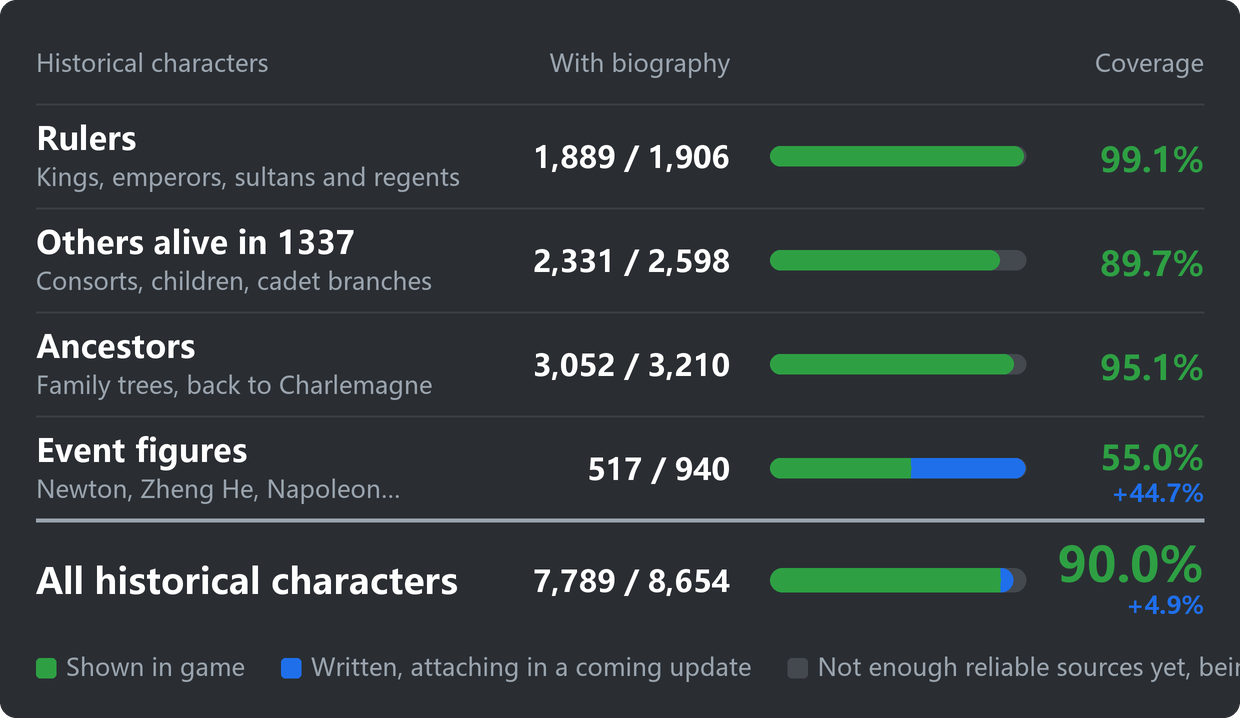
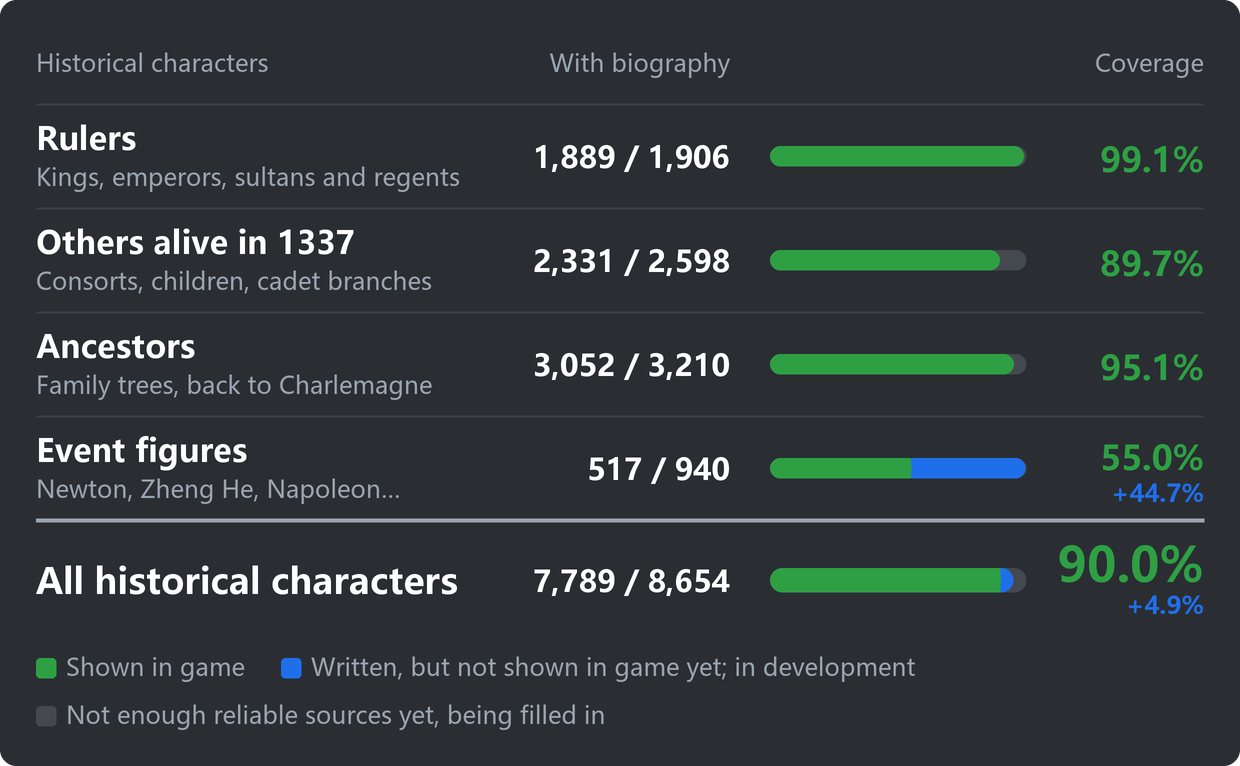
Coverage legend: written but not yet shown in game

diff --git a/workshop/assets/coverage-20261105/render.py b/workshop/assets/coverage-20261105/render.py
@@ -21,7 +21,7 @@ TEXT = {
            'ancestors': ('Ancestors', 'Family trees, back to Charlemagne'),
            'events': ('Event figures', 'Newton, Zheng He, Napoleon…'),
            'total': ('All historical characters', None),
-           'legend': ('Shown in game', 'Written, attaching in a coming update', 'Not enough reliable sources yet, being filled in'),
+           'legend': ('Shown in game', 'Written, but not shown in game yet; in development', 'Not enough reliable sources yet, being filled in'),
            },
     'zh-CN': {'head': ('人物类别', '有生平 / 总数', '覆盖率'),
               'rulers': ('君主与统治者', '国王、皇帝、苏丹、摄政'),
@@ -29,7 +29,7 @@ TEXT = {
               'ancestors': ('先辈', '家族树里的祖先，远至查理曼'),
               'events': ('事件人物', '牛顿、郑和、拿破仑……'),
               'total': ('全部历史人物', None),
-              'legend': ('游戏中显示', '已写好，后续版本接入', '可靠资料暂时不足，逐渐补充中'),
+              'legend': ('游戏中显示', '生平已写好，但在游戏中暂时还无法显示，开发中', '可靠资料暂时不足，逐渐补充中'),
               },
 }
 
@@ -54,10 +54,22 @@ def bar(draw, x, y, w, h, shown, pending, total):
         draw.rectangle(((sx - r) * S, y * S, sx * S, (y + h) * S), fill=GREEN)
 
 
+def legend_breaks(t):
+    f = font(REG, 12)
+    d = ImageDraw.Draw(Image.new('L', (1, 1)))
+    x, n = PAD, 0
+    for label in t['legend']:
+        w = 15 + d.textlength(label, font=f) / S
+        if x + w > W - PAD:
+            x, n = PAD, n + 1
+        x += w + 18
+    return n
+
+
 def render(lang, data):
     t = TEXT[lang]
     rows = data['rows']
-    H = PAD + HEAD_H + ROW_H * (len(rows) - 1) + TOTAL_H + LEGEND_H + PAD // 2
+    H = PAD + HEAD_H + ROW_H * (len(rows) - 1) + TOTAL_H + LEGEND_H + PAD // 2 + 24 * legend_breaks(t)
     img = Image.new('RGBA', (W * S, H * S))
     d = ImageDraw.Draw(img)
     d.rounded_rectangle((0, 0, W * S - 1, H * S - 1), RADIUS * S, fill=BG)
@@ -94,6 +106,8 @@ def render(lang, data):
     x = PAD
     f_leg = font(REG, 12)
     for label, color in zip(t['legend'], (GREEN, BLUE, TRACK)):
+        if x + 15 + d.textlength(label, font=f_leg) / S > W - PAD:
+            x, y = PAD, y + 24
         d.rounded_rectangle((x * S, (y - 9) * S, (x + 10) * S, (y + 1) * S), 2 * S, fill=color)
         text(d, (x + 15, y), label, f_leg, MUTED)
         x += 15 + d.textlength(label, font=f_leg) / S + 18
